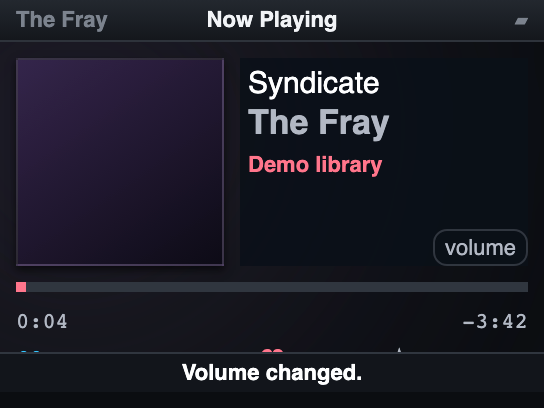
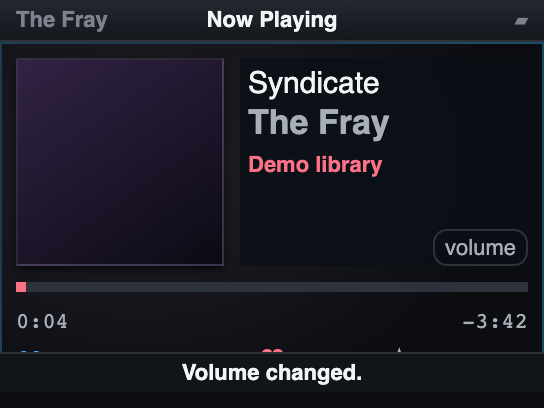
docs(panel): prove raster-compatible effects

Changed region(s): [[0.0, 0.0882, 1.0, 0.8529]]

diff --git a/docs/workstreams/002-implementation-spine/diary/w3.md b/docs/workstreams/002-implementation-spine/diary/w3.md
@@ -6,6 +6,8 @@ The implementation includes all eight prescribed states, the three-stop S13 cent
 
 The correction pass replaced label-only state handling with per-screen state behavior, made Dynamic Type reachable at 130% and 200% with 8/6/4 density, added exact pale/dark adaptive artwork fixtures, removed every authored sub-11px final font, and added semantic selected options plus browser-level keyboard and axe checks. The >100-row path uses a 120-row fixture and records both bounded DOM and a 4× CPU-throttled frame measurement.
 
+The W6 boundary review caught that the adaptive bloom still depended on CSS blur and blend modes, despite the panel’s raster-safe contract. Those effects were replaced with a pre-composited radial colour field: no `filter`, `backdrop-filter`, or `mix-blend-mode` remains in the panel package. A package-seam browser test checks computed pseudo-element styles in both colourways and proves reduced transparency removes the field.
+
 Visual work was compared through Pencil MCP against `A76Ib`, `DLqSo`, `H4QpB`, then the reusable S03/S13 nodes `HYNXu` and `mObBW`. Evidence includes paired overviews plus 544×408 locator crops for all 48 screen/state/colourway combinations, four adaptive-art variants, four Dynamic Type variants, and six preference variants.
 
 Owner-only gates remain open: U14 thumb-occlusion validation and H-6 aesthetic acceptance in both colourways. This lane does not claim either passed.

diff --git a/docs/workstreams/002-implementation-spine/decisions/w3.md b/docs/workstreams/002-implementation-spine/decisions/w3.md
@@ -28,3 +28,4 @@
 8. W5a implemented the universal runner. Its command phases (types, lint, and tests) pass, including root Bun discovery after the browser-test suffix moved to `.e2e.ts`. The latest rerun is presently blocked before those phases by a concurrent, W5a-owned deletion of `scripts/gate-core.ts`; W3 neither restores nor commits that foreign file. Earlier W5a static failures were acknowledged false positives under W5a review, so truthful prescribed state names remain intact.
 9. Browser evidence is locator-cropped at 544×408: exactly 2× the 272×204 raster, without page chrome. Overview captures remain only as navigation aids.
 10. The adaptive artwork fixtures are deterministic visual inputs: pale and dark surfaces pair with exact 3×3 dominant-colour and 8×8 luminance samples. Provider artwork remains the normal non-fixture path; the fixture surfaces make all four adaptive branches independently inspectable.
+11. The panel package contains no CSS blend or filter effect. Artwork ambience is a pre-composited radial colour field made from raster-safe gradients and custom properties; scanline/sub-pixel treatment remains the screen-mesh shader’s responsibility. This preserves the bare-DOM colourway treatment without importing composite, branching on tier, or duplicating the shader overlay. Reduced transparency removes the ambience entirely at the same package seam.

diff --git a/docs/workstreams/002-implementation-spine/evidence/w3-review-response.md b/docs/workstreams/002-implementation-spine/evidence/w3-review-response.md
@@ -21,6 +21,8 @@ This map addresses every binding review finding and all re-review entry criteria
 15. All new screenshot evidence is real PNG data produced by Playwright. The earlier mislabeled files were converted to PNG in the first correction.
 16. Search input is narrowed by closed parsers with explicit return unions and no unchecked casts.
 
+The subsequent T1 boundary correction removes all `filter`, `backdrop-filter`, and `mix-blend-mode` declarations from the panel package. Artwork ambience now uses a raster-safe pre-composited radial field. Computed-style browser evidence covers both colourways and reduced-transparency removal without importing composite or branching on tier.
+
 ## Re-review entry criteria
 
 1. Provider playback/progress: `w3-keyboard.json` and browser test.

diff --git a/docs/workstreams/002-implementation-spine/evidence/w3-visual.md b/docs/workstreams/002-implementation-spine/evidence/w3-visual.md
@@ -20,5 +20,6 @@ Additional focused evidence:
 - accessibility: `w3-axe.json`
 - keyboard/provider traversal: `w3-keyboard.json`
 - 120-row runtime: `w3-virtual-performance.json`
+- raster-compatible package seam: `w3-raster-compatible-{dark,light}.png` and `w3-raster-compatibility.json`
 
 The route presents both panels at 2× integer zoom for owner inspection. U14 and H-6 remain owner-only and are not asserted here.
